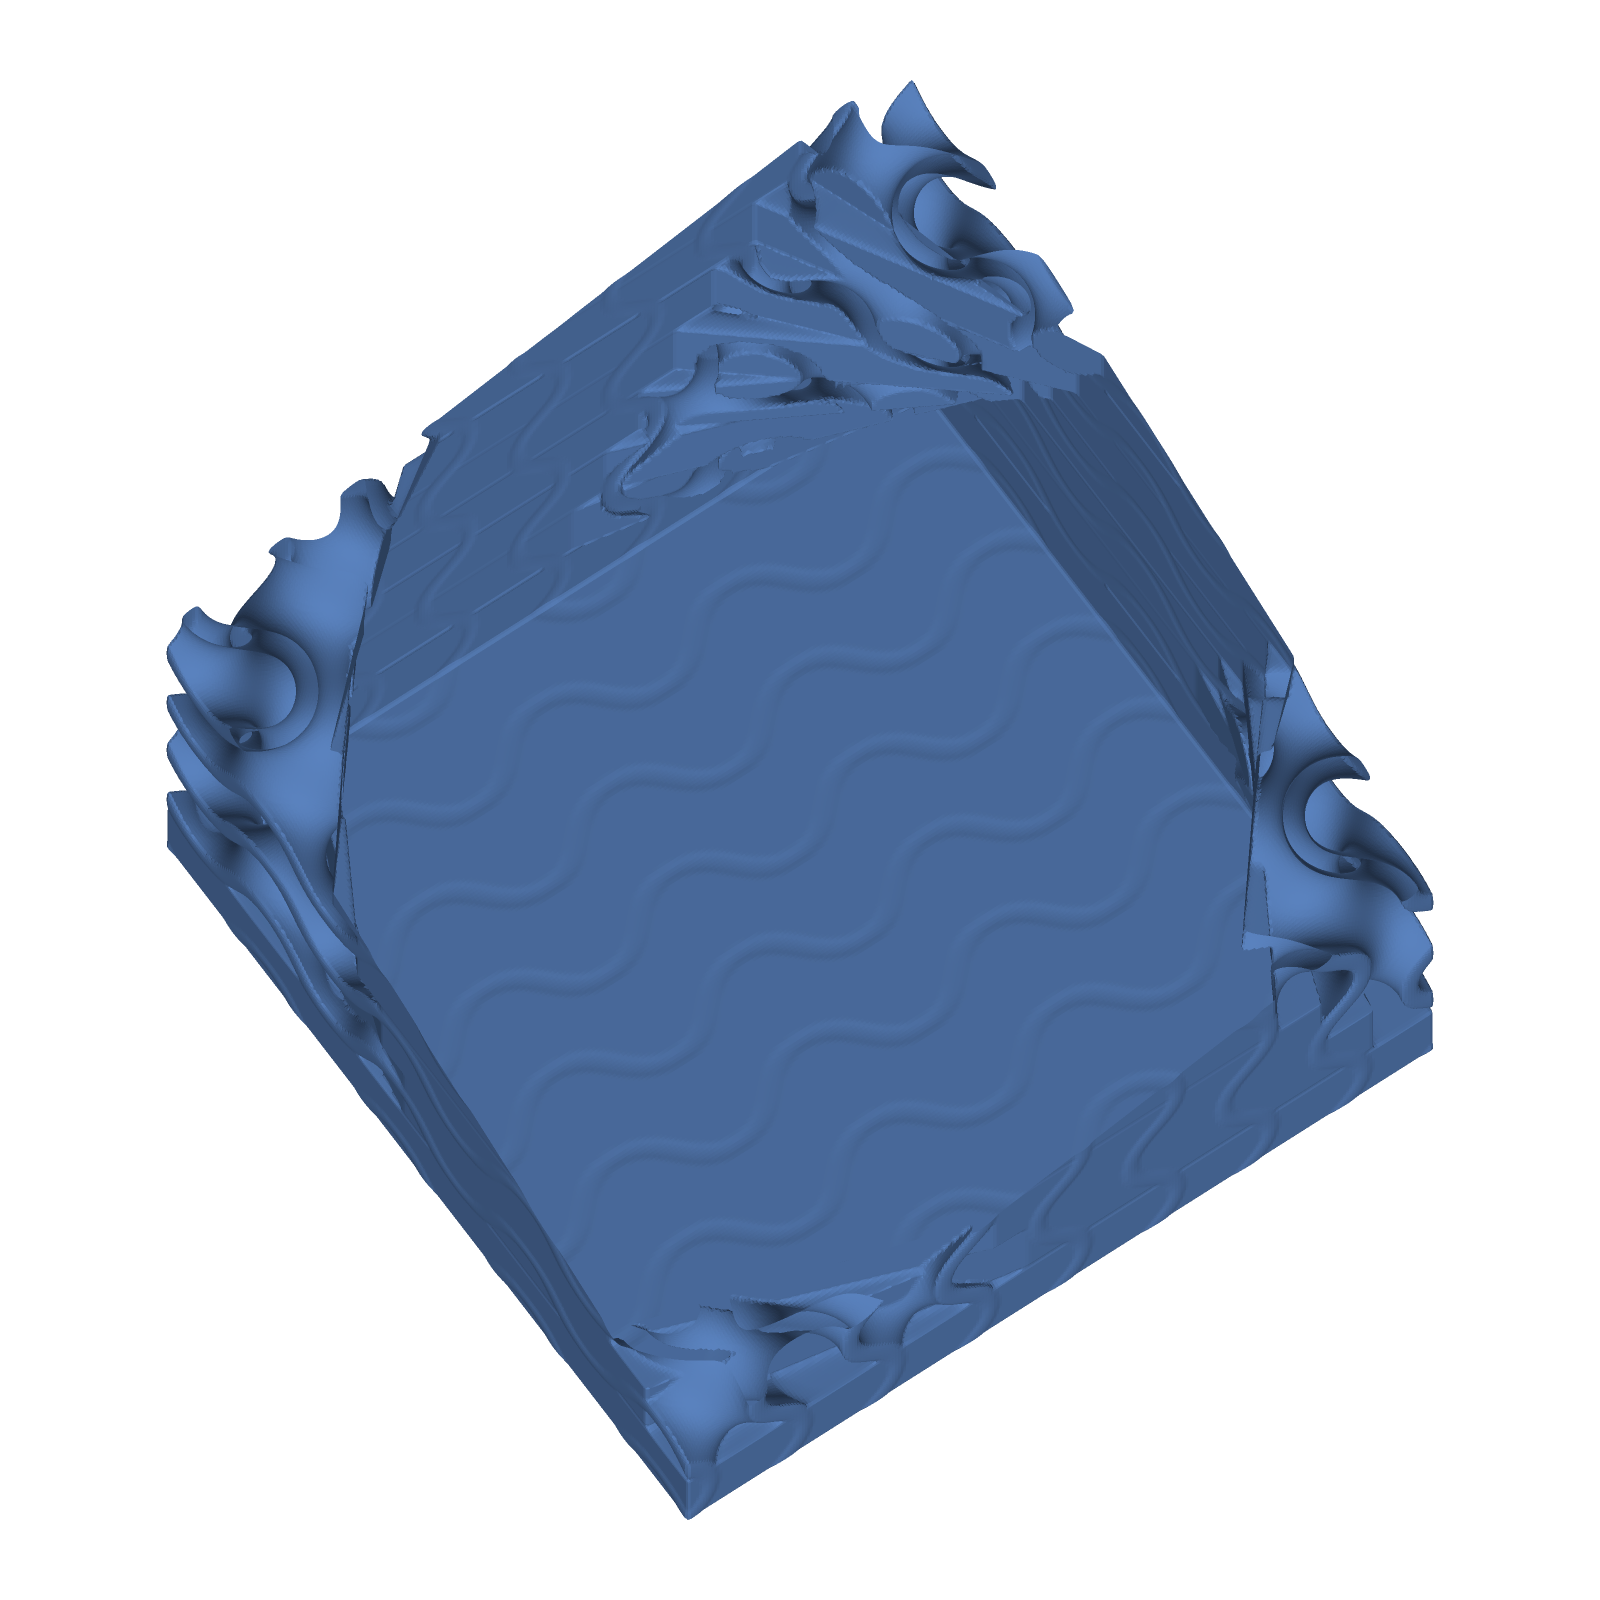
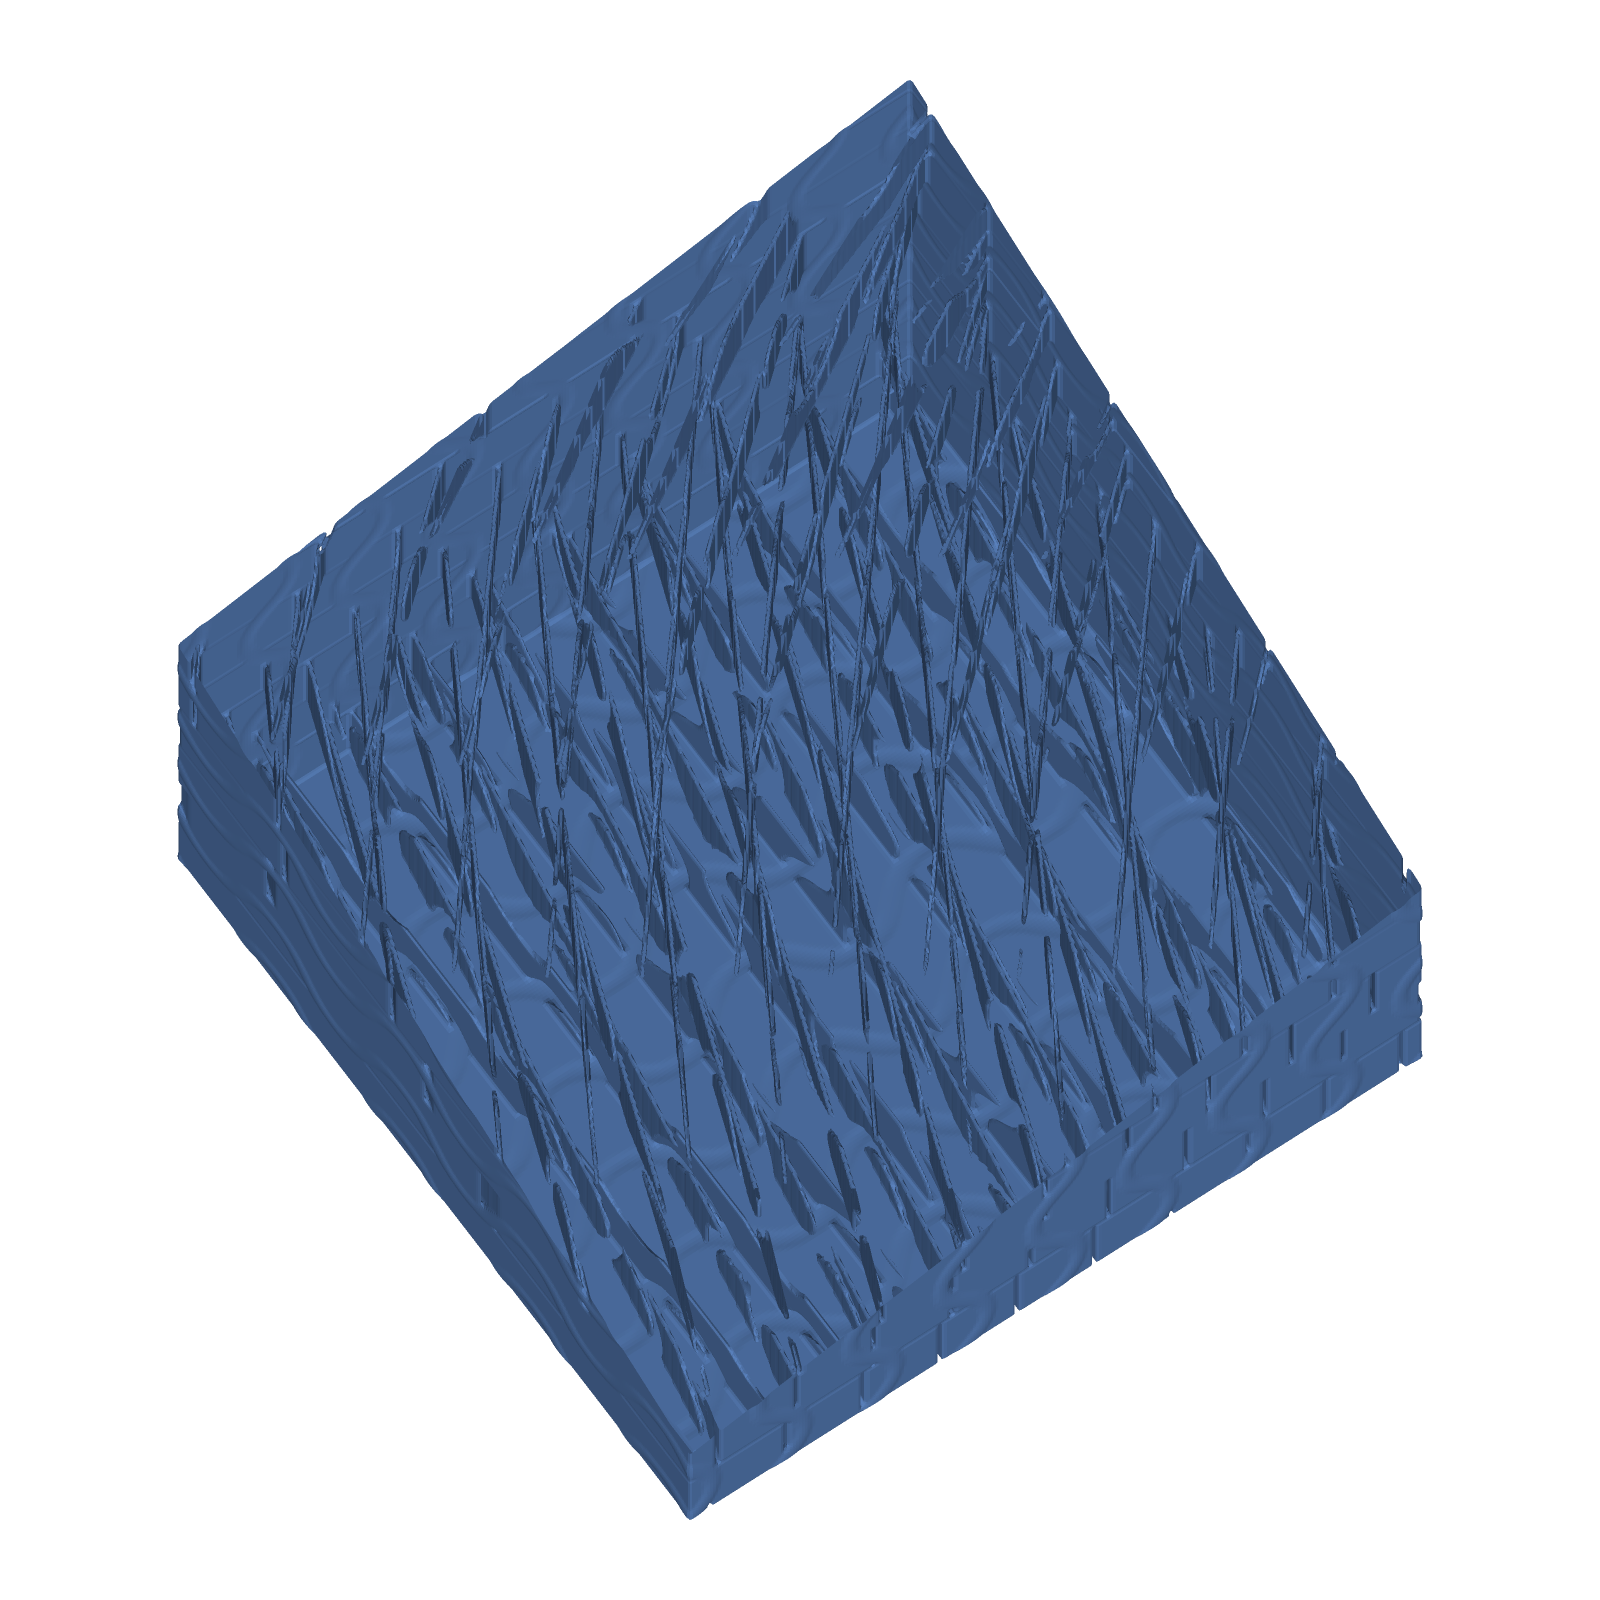
fusion_gyroid_plus_helical: use helical rectangular fibres (open) instead of the solid-square plate family; re-run at 256: 7766.338 mm3, 1 component, PASS 7/7. Top-face closure unverified (projection test inconclusive); README and TASK_PLAN updated

Changed region(s): [[0.0938, 0.0312, 0.9062, 0.9375]]

diff --git a/examples/structure_gallery_256_mixed_open/fusion_gyroid_plus_helical/design.ts b/examples/structure_gallery_256_mixed_open/fusion_gyroid_plus_helical/design.ts
@@ -1,5 +1,5 @@
 // Bioinspired123D-WASM parametric design (final state after RepairHarness).
-// Prompt: "fusion union: gyroid TPMS with helical plies"
+// Prompt: "fusion union: gyroid TPMS with helical rectangular fibres"
 // Run from the project root:  node --experimental-strip-types artifacts/<name>/design.ts
 // Edit the constants below and re-run to regenerate geometry and metrics.
 // SDF (reference): fusion (union) of two designs; field = min(A, B)
@@ -18,7 +18,7 @@ const heterogeneity_field = null;
 const spec: DesignSpec = {
   topology: "fusion",
   
-  fusion: {"mode":"union","a":{"topology":"tpms","bio_motif":"tpms:gyroid","family":"tpms","variant":"gyroid","parameters":{"seed":42,"cell_size_mm":5,"wall_thickness_mm":0.5},"heterogeneity_field":null,"target_metrics":{"connectivity":true},"constraints":{"size_mm":20,"min_printable_wall_mm":0.4,"resolution":256},"retrieval":{"base_id":"cellular_generic","top_k":[{"id":"cellular_generic","score":0},{"id":"cellular_sandwich","score":0},{"id":"cellular_voronoi","score":0}]},"confidence":0.85,"unknowns":["Build edge length not given; 20 mm cube assumed.","Printability floor not given; 0.4 mm assumed for the RepairHarness.","Unit cell size not given; 4 mm assumed.","TPMS wall thickness not given; 12% of the period assumed."],"notes":[]},"b":{"topology":"helical","bio_motif":"helical_generic","family":"helical","variant":"helical_generic","parameters":{"num_plies":10,"rotation":10,"seed":42},"heterogeneity_field":null,"target_metrics":{"connectivity":true},"constraints":{"size_mm":20,"min_printable_wall_mm":0.4,"resolution":256},"retrieval":{"base_id":"helical_generic","top_k":[{"id":"helical_generic","score":7.237},{"id":"helical_noise","score":3.567},{"id":"helical_cylinfibers","score":2.594}]},"confidence":0.7,"unknowns":["Build edge length not given; 20 mm cube assumed.","Printability floor not given; 0.4 mm assumed for the RepairHarness."],"notes":[]}} as unknown as NonNullable<DesignSpec["fusion"]>,
+  fusion: {"mode":"union","a":{"topology":"tpms","bio_motif":"tpms:gyroid","family":"tpms","variant":"gyroid","parameters":{"seed":42,"cell_size_mm":5,"wall_thickness_mm":0.5},"heterogeneity_field":null,"target_metrics":{"connectivity":true},"constraints":{"size_mm":20,"min_printable_wall_mm":0.4,"resolution":256},"retrieval":{"base_id":"cellular_generic","top_k":[{"id":"cellular_generic","score":0},{"id":"cellular_sandwich","score":0},{"id":"cellular_voronoi","score":0}]},"confidence":0.85,"unknowns":["Build edge length not given; 20 mm cube assumed.","Printability floor not given; 0.4 mm assumed for the RepairHarness.","Unit cell size not given; 4 mm assumed.","TPMS wall thickness not given; 12% of the period assumed."],"notes":[]},"b":{"topology":"helical","bio_motif":"helical_rectfibers","family":"helical","variant":"helical_rectfibers","parameters":{"num_plies":10,"rotation":10,"seed":42},"heterogeneity_field":null,"target_metrics":{"connectivity":true},"constraints":{"size_mm":20,"min_printable_wall_mm":0.4,"resolution":256},"retrieval":{"base_id":"helical_rectfibers","top_k":[{"id":"helical_rectfibers","score":8.94},{"id":"helical_cylinfibers","score":5.248},{"id":"helical_generic","score":4.363}]},"confidence":0.7,"unknowns":["Build edge length not given; 20 mm cube assumed.","Printability floor not given; 0.4 mm assumed for the RepairHarness."],"notes":[]}} as unknown as NonNullable<DesignSpec["fusion"]>,
   
   bio_motif: "fusion:union",
   family: "fusion",

diff --git a/scripts/structure_gallery.ts b/scripts/structure_gallery.ts
@@ -141,9 +141,11 @@ const BASE_ENTRIES: Entry[] = [
 
   // ---- fusions of different structure types -----------------------------------------------
   {
-    id: "fusion_gyroid_plus_helical", group: "fusion", title: "Gyroid union helical plies",
-    prompt: "fusion union: gyroid TPMS with helical plies",
-    make: () => fusionSpec("union", rawTpms("gyroid", TPMS_CELL, TPMS_T), bioSpec("stacked helical plate structure with 10 plies, 10 degrees")),
+    // Helical rectangular fibres, not the plate family: plate plies are solid squares that close the top face
+    // (see examples/structure_gallery_256_mixed_open/README.md). Fibres keep the entry open.
+    id: "fusion_gyroid_plus_helical", group: "fusion", title: "Gyroid union helical rectangular fibres",
+    prompt: "fusion union: gyroid TPMS with helical rectangular fibres",
+    make: () => fusionSpec("union", rawTpms("gyroid", TPMS_CELL, TPMS_T), bioSpec("helical rectangular fibers plies with 10 plies, 10 degrees")),
   },
   {
     id: "fusion_schwarzp_to_gyroid", group: "fusion", title: "Schwarz P below, gyroid above (zoned at mid-height)",

diff --git a/examples/structure_gallery_256_mixed_open/README.md b/examples/structure_gallery_256_mixed_open/README.md
@@ -8,7 +8,7 @@ Field-based (non-exact) renders: these come from the field and surface-nets mesh
 
 | id | title | group | volume (mm³) | validation | images |
 |---|---|---|---|---|---|
-| `fusion_gyroid_plus_helical` | Gyroid union helical plies | fusion | 7419.539 | PASS (7/7) | screenshot.png, view_top.png, view_front.png, view_side.png |
+| `fusion_gyroid_plus_helical` | Gyroid union helical rectangular fibres | fusion | 7419.539 | PASS (7/7) | screenshot.png, view_top.png, view_front.png, view_side.png |
 | `fusion_schwarzp_to_gyroid` | Schwarz P below, gyroid above (zoned at mid-height) | fusion | 2179.981 | PASS (7/7) | screenshot.png, view_top.png, view_front.png, view_side.png |
 | `fusion_kelvin_to_iwp` | Kelvin lattice below, I-WP above (zoned), open (no skin) | fusion | 2205.499 | PASS (7/7) | screenshot.png, view_top.png, view_front.png, view_side.png |
 | `fusion_bcc_plus_voronoi` | BCC lattice union Voronoi foam | fusion | 6174.205 | PASS (7/7) | screenshot.png, view_top.png, view_front.png, view_side.png |
@@ -37,8 +37,10 @@ The nine entries not inspected before (Kelvin and R2 were checked earlier) were 
 | `deep_R5_hierarchy` | large flat faces with pocketed infill | flat faces not yet verified as foam walls |
 | `fusion_bcc_plus_voronoi` | flat faces; strut stubs stick out past the box at top and sides | open: stubs beyond envelope to check |
 | `fusion_diamond_plus_lidinoid` | flat faces; strut stubs past the box; jagged rim | open: as above, plus rim sawtooth |
-| `fusion_gyroid_plus_helical` | **near-full disc plate over the top face** (`view_top.png`), gyroid only at corners | open: plate covers the face; contradicts the open-design intent |
+| `fusion_gyroid_plus_helical` | previous version (helical plate family, solid square plies) had a near-full disc plate over the top face. Re-run with helical rectangular fibres: volume 7766.338 mm³, 1 component, PASS. The new `view_top.png` still shows no background through the face, as do the other helical entries (0.00 % in `bio_helical_rectfibers`), so top-view coverage is not a test of closure | **unverified:** top-face closure in 3D not measured (needs a slice test) |
 | `fusion_helical_cap_iwp` | I-WP-type sheet, jagged rim; one small stray fragment at top | open: rim sawtooth, fragment |
 | `fusion_schwarzp_to_gyroid` | gyroid-type sheet, jagged rim | open: rim sawtooth |
 
 Open points carried forward: the helical plate (see `docs/TASK_PLAN.md`), the rim sawtooth on gyroid-based entries, and whether the flat faces in `deep_R5_hierarchy`, `fusion_bcc_plus_voronoi` and `fusion_diamond_plus_lidinoid` are the intended foam walls.
+
+Note on `fusion_gyroid_plus_helical` (re-run): the entry now uses `helical_rectfibers` instead of the plate family, because plate plies are solid squares that close the top face. Its volume changed from 7419.539 to 7766.338 mm³. The previous render is in git history (commit b38dbfc).

diff --git a/docs/TASK_PLAN.md b/docs/TASK_PLAN.md
@@ -53,7 +53,7 @@ Each step has an acceptance check. A step is done only when its check passes and
 | A1 | done: sparse sampler matches dense volume (SC, gyroid at 256). Saving 39% for SC, ~0% for TPMS. See docs/SPARSE_SAMPLING.md |
 | D2 | partial: instanced SC field (src/topology/instanced.ts, 5 tests), WGSL compute kernel generated from the same table (parsed with wgsl_reflect, not run on a GPU), GPU runner with CPU fallback (web/compute/scField.ts), LOD table (eval/lod_table.csv: 50k triangles at volume err 0.045 %). Viewer does not call the compute path. See docs/COMPUTE_LOD.md |
 | D3 | partial: CPU sections (src/geometry/section.ts, half-open crossing, oriented segments), measurement (measure.ts), icosphere benchmark at 82k / 328k / 1.3M triangles (eval/section_bench.csv, errors 0.0005–0.008 %), 5 tests. Viewer panel added (plane, outline, area, volume; compiled, not browser-checked). Design-mesh benchmark done (3 closed sphere-clipped designs, 76 k–1.9 M triangles, 0 open edges; section error −0.9 % to −5 % at the highest resolutions, graded design under-resolved). See docs/SECTIONS.md |
-| A5 | done: 11 mixed entries (6 fusion, 5 deep) re-run open at 256 (SKIN=0), 11/11 PASS, 4 views each, examples/structure_gallery_256_mixed_open/. Field-based, not exact B-Rep. deep_R2 flat faces checked: solid matrix by design (scripts/check_r2_matrix.ts). Render check of the other nine (see README): fusion_gyroid_plus_helical has a near-full plate over the top face (open intent not met); rim sawtooth on gyroid-based entries; flat faces in deep_R5 / bcc_voronoi / diamond_lidinoid unverified. No fix claimed |
+| A5 | done: 11 mixed entries (6 fusion, 5 deep) re-run open at 256 (SKIN=0), 11/11 PASS, 4 views each, examples/structure_gallery_256_mixed_open/. Field-based, not exact B-Rep. deep_R2 flat faces checked: solid matrix by design (scripts/check_r2_matrix.ts). Render check of the other nine (see README): fusion_gyroid_plus_helical re-run with helical rectangular fibres (7766.338 mm³, 1 component, PASS); top-face closure still unverified (projection test cannot show it); rim sawtooth on gyroid-based entries; flat faces in deep_R5 / bcc_voronoi / diamond_lidinoid unverified. No fix claimed |
 | A3 | done: GLB writer/reader, round trip test, glTF validator 0 errors on display and full meshes. See docs/GLB_EXPORT.md |
 | A4 | partial: src/render/cutaway.ts (shared cut-away + supersampled PNG), scripts/render_fine.ts, examples/fine_256 (sc, gyroid, schwarz_p, 1600 px, 4 views). Exact-B-Rep renders still pending (see Phase B/exact). |
 | A2 | done: benchmark + display budget 1 M triangles (vertex clustering, volume bias <=0.7 %). See docs/MESH_BUDGET.md. Previous note: mesh budget. Triangles grow as res^2 (gyroid 256 = 5.9 M), so decide decimation/LOD before 384/512 benchmarks |
